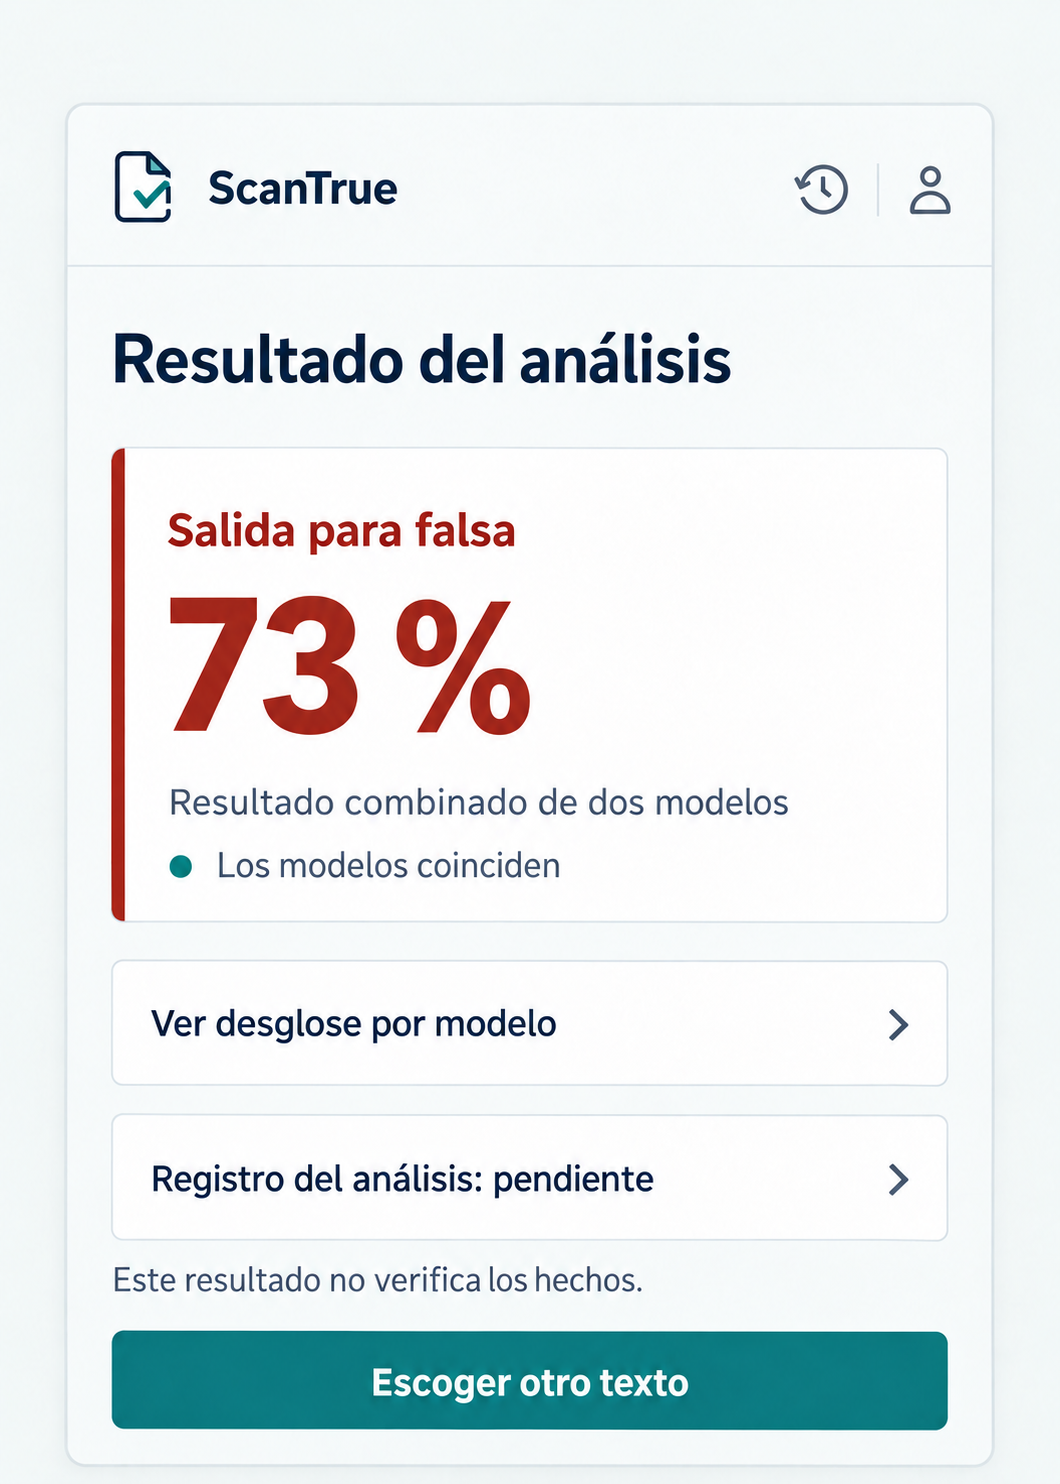
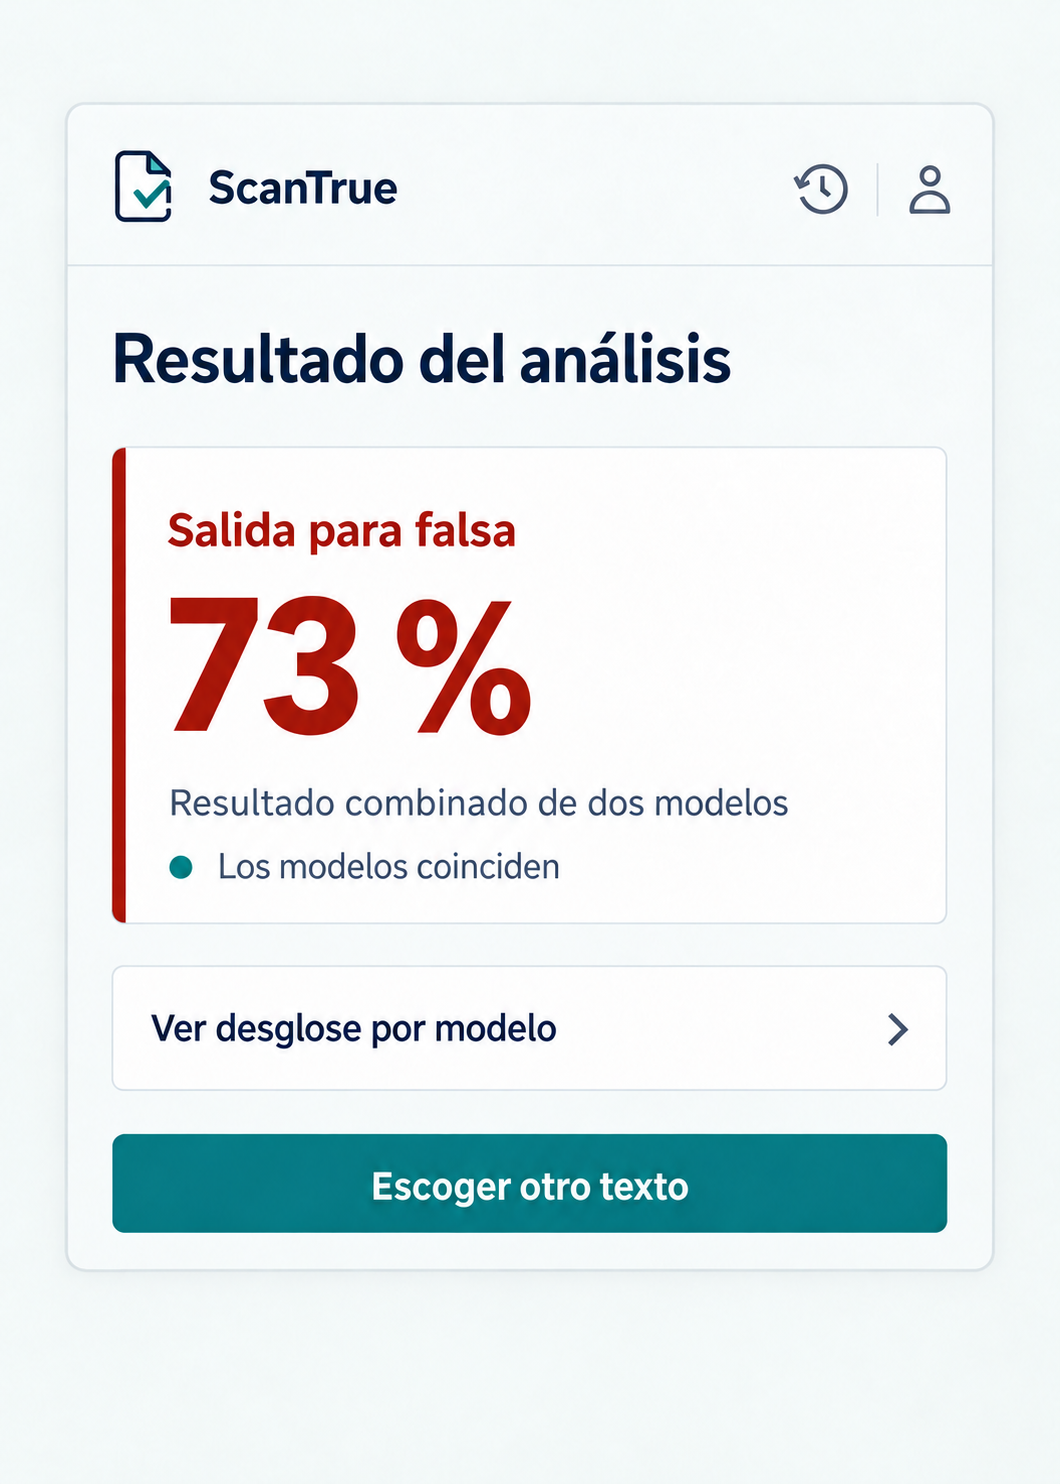
Ordenar develop: documentación histórica, entregas y referencias visuales
- backend/docs/historial/: planes y notas de cambio ya cumplidos (PLAN, PLAN_LIMPIEZA_TEXTO,
  PLAN_TEXTO_UNICO, FEATURE_INTEGRACION_FRONTEND, CAMBIO_CONTRATO_MBERT).
- docs/entregas/Avance_2.docx (antes backend/docs/Avance 2.docx).
- frontend/docs/SISTEMA_DISENO.md y bilstm/docs/TEORIA_ENTRENAMIENTO.md.
- frontend/referencias: se retira la primera versión de p05 y se quita el sufijo -v2.
- Enlaces e índices actualizados (README del backend, frontend y BiLSTM).

diff --git a/frontend/src/popup/styles.css b/frontend/src/popup/styles.css
@@ -5,7 +5,7 @@
 @import '@fontsource/share-tech-mono/latin-400.css';
 @import 'tailwindcss';
 
-/* ScanTrue · consola de análisis retro (ver SISTEMA_DISENO.md). */
+/* ScanTrue · consola de análisis retro (ver frontend/docs/SISTEMA_DISENO.md). */
 @theme {
   --font-sans: 'IBM Plex Sans', Arial, sans-serif;
   --font-display: 'Orbitron', 'Share Tech Mono', monospace;

diff --git a/backend/docs/ESTADO_ACTUAL.md b/backend/docs/ESTADO_ACTUAL.md
@@ -1,6 +1,6 @@
 # Estado actual del backend de ScanTrue
 
-Este documento registra el punto de trabajo actual y el orden propuesto para continuar. El alcance general y los criterios de cierre están en [PLAN.md](PLAN.md); las instrucciones de uso están en [README.md](../README.md).
+Este documento registra el punto de trabajo actual y el orden propuesto para continuar. El alcance general y los criterios de cierre están en [PLAN.md](historial/PLAN.md); las instrucciones de uso están en [README.md](../README.md).
 
 ## Punto en que quedamos
 
@@ -10,13 +10,13 @@ Este documento registra el punto de trabajo actual y el orden propuesto para con
 3. **Verificación de invitados y transferencia completada.** Auth anónimo quedó habilitado y `backend/verificar_flujo.py` pasó con dos invitados: comprobó aislamiento del historial, creación, lectura, renovación, eliminación y cierre de la sesión actual. Además, una cuenta temporal confirmada por Auth Admin inició sesión con `X-Guest-Token`, incorporó un análisis completo y el invitado perdió acceso. El análisis y las identidades temporales de esa prueba se eliminaron.
 4. **Métricas de evaluación: implementadas para ambos.** `GET /metricas` mantiene BiLSTM por defecto; `GET /metricas?modelo=mbert` publica las evaluaciones del checkpoint mBERT seleccionado, con fuentes y limitaciones. Son rutas públicas que no requieren Supabase ni inferencia.
 5. **Registro verificable local: comprobado con análisis real.** El contrato, la cola durable en Supabase, el trabajador y `GET /analisis/{id}/verificacion` están añadidos. La migración `003_blockchain_registry.sql` está aplicada. El recorrido con invitado confirmó un análisis en Anvil y verificó su registro; el análisis de prueba fue eliminado al finalizar.
-6. **Integración frontend: contrato y transferencia comprobados.** El código calcula `resultado_unificado`, guarda el texto y expone sus respuestas de historial y `POST /sesiones/cerrar`. La migración `004_frontend_contract.sql` se aplicó al proyecto Supabase conectado el 10 de octubre de 2026. Los recorridos reales confirmaron texto, vista previa, valor unificado, aislamiento, cierre de sesión y transferencia a cuenta. La guía del frontend está en [`../FRONTEND_CONTEXT.md`](../../frontend/docs/FRONTEND_CONTEXT.md); el detalle interno está en [FEATURE_INTEGRACION_FRONTEND.md](FEATURE_INTEGRACION_FRONTEND.md).
-7. **Cambio de contrato mBERT:** la respuesta de creación incorpora `texto_recortado`, y el historial y el hash usan el fragmento analizado. La guía del frontend ya enviada no se editó; la actualización para comunicar a su responsable está en [CAMBIO_CONTRATO_MBERT.md](CAMBIO_CONTRATO_MBERT.md). La comprobación local verificó recorte, hash y fallback de un solo modelo. Después `backend/verificar_flujo.py` pasó con Supabase y Anvil reales: guardó las dos predicciones, confirmó blockchain, comprobó aislamiento y eliminó el análisis de prueba. El verificador conserva las identidades invitadas que crea en Auth.
+6. **Integración frontend: contrato y transferencia comprobados.** El código calcula `resultado_unificado`, guarda el texto y expone sus respuestas de historial y `POST /sesiones/cerrar`. La migración `004_frontend_contract.sql` se aplicó al proyecto Supabase conectado el 10 de octubre de 2026. Los recorridos reales confirmaron texto, vista previa, valor unificado, aislamiento, cierre de sesión y transferencia a cuenta. La guía del frontend está en [`../FRONTEND_CONTEXT.md`](../../frontend/docs/FRONTEND_CONTEXT.md); el detalle interno está en [FEATURE_INTEGRACION_FRONTEND.md](historial/FEATURE_INTEGRACION_FRONTEND.md).
+7. **Cambio de contrato mBERT:** la respuesta de creación incorpora `texto_recortado`, y el historial y el hash usan el fragmento analizado. La guía del frontend ya enviada no se editó; la actualización para comunicar a su responsable está en [CAMBIO_CONTRATO_MBERT.md](historial/CAMBIO_CONTRATO_MBERT.md). La comprobación local verificó recorte, hash y fallback de un solo modelo. Después `backend/verificar_flujo.py` pasó con Supabase y Anvil reales: guardó las dos predicciones, confirmó blockchain, comprobó aislamiento y eliminó el análisis de prueba. El verificador conserva las identidades invitadas que crea en Auth.
 8. **Texto único:** `POST /analisis` recibe `texto` y `url` opcional. La migración `005_texto_unico.sql` quedó aplicada como `texto_unico`; eliminó la columna `titulo` y las RPC con `p_titulo` después de comprobar que ningún análisis histórico tenía ese valor. El frontend actual ya enviaba solo `texto` y `url`, y usa la vista previa del historial. Los campos operativos de blockchain se conservaron.
 
 ## Qué falta ahora
 
-1. **Comunicación con frontend:** enviar la actualización de contrato de `CAMBIO_CONTRATO_MBERT.md`, incluida la retirada de `titulo` del historial, a la persona que implementa la extensión; `FRONTEND_CONTEXT.md` no se modificó.
+1. **Comunicación con frontend:** enviar la actualización de contrato de `historial/CAMBIO_CONTRATO_MBERT.md`, incluida la retirada de `titulo` del historial, a la persona que implementa la extensión; `FRONTEND_CONTEXT.md` no se modificó.
 2. **Registro por correo:** repetir `backend/verificar_flujo.py --email` cuando Supabase permita enviar confirmaciones. Con el correo proporcionado para la prueba, Auth respondió `429 over_email_send_rate_limit`; el backend conserva ese estado HTTP y devuelve `registro_temporalmente_limitado`. La transferencia se verificó con una cuenta confirmada por Auth Admin, pero el envío y clic del correo aún no se probaron.
 3. **Seguridad de Auth:** el asesor de Supabase muestra avisos esperados por permitir a invitados leer y borrar únicamente sus propias filas mediante `auth.uid()`. También informa que la protección de contraseñas filtradas está deshabilitada; revisar esa configuración antes de producción.
 

diff --git a/backend/docs/historial/FEATURE_INTEGRACION_FRONTEND.md b/backend/docs/historial/FEATURE_INTEGRACION_FRONTEND.md
@@ -1,12 +1,12 @@
 # Feature implementada: contrato de integración con el frontend
 
-> **Nota (11 nov 2026):** los modelos, los límites de lectura y los pesos del resultado unificado cambiaron. Lo vigente está en [CAMBIO_MODELOS_CALIBRADOS.md](CAMBIO_MODELOS_CALIBRADOS.md); este documento se conserva como registro.
+> **Nota (11 nov 2026):** los modelos, los límites de lectura y los pesos del resultado unificado cambiaron. Lo vigente está en [CAMBIO_MODELOS_CALIBRADOS.md](../CAMBIO_MODELOS_CALIBRADOS.md); este documento se conserva como registro.
 
 > Este documento registra la entrega anterior. La integración posterior de
 > mBERT cambió los límites de lectura y el texto guardado; el contrato vigente
 > y la nota para frontend están en [CAMBIO_CONTRATO_MBERT.md](CAMBIO_CONTRATO_MBERT.md).
 
-**Estado: contrato y transferencia a cuenta comprobados; envío de confirmación por correo pendiente de prueba.** El contrato que recibirá la extensión está en [`../FRONTEND_CONTEXT.md`](../../frontend/docs/FRONTEND_CONTEXT.md). Los recorridos reales con Supabase y Anvil confirmaron el flujo de invitados y la incorporación a una cuenta temporal confirmada por Auth Admin.
+**Estado: contrato y transferencia a cuenta comprobados; envío de confirmación por correo pendiente de prueba.** El contrato que recibirá la extensión está en [`../FRONTEND_CONTEXT.md`](../../../frontend/docs/FRONTEND_CONTEXT.md). Los recorridos reales con Supabase y Anvil confirmaron el flujo de invitados y la incorporación a una cuenta temporal confirmada por Auth Admin.
 
 ## Objetivo y orden
 
@@ -34,7 +34,7 @@ La entrega permite que la extensión muestre el texto analizado, tres espacios d
 ## Entrega y sincronización
 
 1. La migración `004_frontend_contract.sql` se aplicó al proyecto Supabase conectado el 10 de octubre de 2026 (versión `20261010224814`). Se verificaron las columnas nuevas, la función reservada a `service_role`, las políticas RLS y la ausencia de advertencias de seguridad. PostgREST expone la RPC y rechaza con HTTP 400 una solicitud inválida sin crear registros. La tabla tenía cero filas; la reconstrucción de registros antiguos no pudo comprobarse con datos reales.
-2. Actualizar OpenAPI, la documentación de operación y el estado interno al terminar. El documento [`../FRONTEND_CONTEXT.md`](../../frontend/docs/FRONTEND_CONTEXT.md) ya fue entregado y no se modifica; mantener el contrato del backend compatible con sus nombres de campos y su ejemplo de un solo modelo.
+2. Actualizar OpenAPI, la documentación de operación y el estado interno al terminar. El documento [`../FRONTEND_CONTEXT.md`](../../../frontend/docs/FRONTEND_CONTEXT.md) ya fue entregado y no se modifica; mantener el contrato del backend compatible con sus nombres de campos y su ejemplo de un solo modelo.
 3. El 10 de octubre de 2026, `backend/verificar_flujo.py` pasó con dos invitados reales: análisis BiLSTM, resultado unificado, texto y vista previa persistidos, RLS de acceso ajeno, renovación, cierre de sesión, blockchain, respuestas de degradación y eliminación del análisis de prueba. Una segunda comprobación inició sesión en una cuenta temporal confirmada por Auth Admin, transfirió un análisis y verificó que el invitado perdió acceso. Los datos temporales se eliminaron. El registro por correo con un buzón real quedó sin completar porque Auth respondió `429 over_email_send_rate_limit`; el backend ahora devuelve 429 en ese caso. El cálculo local con uno y dos modelos y fallo de un modelo se revisó previamente; mBERT real sigue pendiente. También quedan sin comprobar casos históricos anteriores a 004, que no existían en este proyecto.
 
 ## Feature posterior: mBERT

diff --git a/frontend/README.md b/frontend/README.md
@@ -40,15 +40,16 @@ Se omiten las carpetas generadas `dist/` y `node_modules/`.
 
 ```text
 frontend/
-├── README.md
-├── SISTEMA_DISENO.md
-├── package.json
-├── package-lock.json
-├── popup.html
-├── vite.config.js
+├── docs/
+│   ├── FRONTEND_CONTEXT.md
+│   └── SISTEMA_DISENO.md
 ├── public/
+│   ├── icons/
+│   │   └── icon-16/32/48/128.png
 │   ├── manifest.json
 │   └── popup-fallback.css
+├── referencias/
+│   └── pNN-concepto.png (imágenes de referencia de las pantallas)
 ├── scripts/
 │   └── build-extension.mjs
 ├── src/
@@ -61,10 +62,14 @@ frontend/
 │   │   └── service-worker.js
 │   ├── popup/
 │   │   ├── assets/
+│   │   │   ├── scantrue-mark-small.svg
 │   │   │   └── scantrue-mark.svg
 │   │   ├── components/
+│   │   │   ├── HudDecor.jsx
+│   │   │   ├── ModelIcon.jsx
 │   │   │   ├── PasswordVisibilityButton.jsx
-│   │   │   └── ResultGaugePanel.jsx
+│   │   │   ├── ResultGaugePanel.jsx
+│   │   │   └── ScreenHeader.jsx
 │   │   ├── screens/
 │   │   │   ├── AccountScreen.jsx
 │   │   │   ├── BreakdownScreen.jsx
@@ -80,19 +85,29 @@ frontend/
 │   │   ├── main.jsx
 │   │   ├── metrics-presentation.js
 │   │   ├── result-presentation.js
+│   │   ├── selection-presentation.js
+│   │   ├── service-presentation.js
 │   │   └── styles.css
 │   └── shared/
-│       └── api.js
-├── referencias/
-│   └── imágenes de referencia de las pantallas
-└── tests/
-    ├── account.test.js
-    ├── analysis.test.js
-    ├── breakdown-presentation.test.js
-    ├── extension-message.test.js
-    ├── history-api.test.js
-    ├── history-presentation.test.js
-    ├── metrics.test.js
-    ├── result-presentation.test.js
-    └── selection.test.js
+│       ├── api.js
+│       └── selection.js
+├── tests/
+│   ├── account.test.js
+│   ├── analysis.test.js
+│   ├── breakdown-presentation.test.js
+│   ├── extension-message.test.js
+│   ├── history-api.test.js
+│   ├── history-presentation.test.js
+│   ├── metrics.test.js
+│   ├── result-presentation.test.js
+│   ├── selection-presentation.test.js
+│   ├── selection.test.js
+│   └── service-presentation.test.js
+├── .gitignore
+├── package-lock.json
+├── package.json
+├── popup.html
+├── README.md
+├── sidepanel.html
+└── vite.config.js
 ```

diff --git a/backend/docs/historial/PLAN.md b/backend/docs/historial/PLAN.md
@@ -1,6 +1,6 @@
 # Plan de implementación del backend de ScanTrue
 
-> **Nota (11 nov 2026):** los modelos, los límites de lectura y los pesos del resultado unificado cambiaron. Lo vigente está en [CAMBIO_MODELOS_CALIBRADOS.md](CAMBIO_MODELOS_CALIBRADOS.md); este documento se conserva como registro.
+> **Nota (11 nov 2026):** los modelos, los límites de lectura y los pesos del resultado unificado cambiaron. Lo vigente está en [CAMBIO_MODELOS_CALIBRADOS.md](../CAMBIO_MODELOS_CALIBRADOS.md); este documento se conserva como registro.
 
 ## Objetivo de esta entrega
 
@@ -8,7 +8,7 @@ Dejar una API local funcional y demostrable desde FastAPI. Debe analizar texto c
 
 ## Hoja de ruta actual
 
-1. **Integración con la extensión: implementada y comprobada.** Texto seleccionado, vista previa, detalle, resultado unificado persistido y cierre de sesión están disponibles. La migración 004 está aplicada; el contrato está en [FEATURE_INTEGRACION_FRONTEND.md](FEATURE_INTEGRACION_FRONTEND.md). La guía ya entregada a frontend está en [`../FRONTEND_CONTEXT.md`](../../frontend/docs/FRONTEND_CONTEXT.md) y no se modifica.
+1. **Integración con la extensión: implementada y comprobada.** Texto seleccionado, vista previa, detalle, resultado unificado persistido y cierre de sesión están disponibles. La migración 004 está aplicada; el contrato está en [FEATURE_INTEGRACION_FRONTEND.md](FEATURE_INTEGRACION_FRONTEND.md). La guía ya entregada a frontend está en [`../FRONTEND_CONTEXT.md`](../../../frontend/docs/FRONTEND_CONTEXT.md) y no se modifica.
 2. **Cierre operativo: transferencia comprobada.** Auth anónimo está habilitado; los recorridos reales cubrieron invitados, historial, eliminación, porcentajes, blockchain y transferencia a una cuenta temporal confirmada por Auth Admin. Queda por comprobar el envío y clic del correo de registro cuando termine el límite temporal de Supabase.
 3. **mBERT real: implementado y comprobado operativamente.** El checkpoint, tokenizador, mapa de clases y evaluaciones del modelo seleccionado están en `mBERT/`; el adaptador del backend carga la inferencia real. La API conserva los tres espacios de porcentaje y el resultado unificado. El recorrido con Supabase y Anvil confirmó persistencia de dos predicciones, aislamiento y blockchain. La actualización del contrato para frontend está en [CAMBIO_CONTRATO_MBERT.md](CAMBIO_CONTRATO_MBERT.md).
 4. **Texto único: implementado.** La migración 005 elimina el título separado de la base de datos; `POST /analisis` usa solo `texto` y `url` opcional. La extensión ya enviaba ese contrato.

diff --git a/frontend/docs/FRONTEND_CONTEXT.md b/frontend/docs/FRONTEND_CONTEXT.md
@@ -33,7 +33,7 @@ La primera versión será una extensión Manifest V3 para **Chrome/Chromium 127 
 
 El service worker recibe `selectionText` y `pageUrl`, prepara la solicitud y abre el popup del prototipo. Si Chrome no abre el popup automáticamente, conserva la selección pendiente y pide abrirlo desde el icono de la extensión. El botón de “Escoger texto a analizar” del prototipo puede guiar al usuario a seleccionar texto y usar el menú contextual. [Chrome documenta `selectionText` y `pageUrl`](https://developer.chrome.com/docs/extensions/reference/api/contextMenus) y [`action.openPopup()`](https://developer.chrome.com/docs/extensions/reference/api/action).
 
-Usar como referencia visual las vistas de `backend/Avance 2.docx`: escaneo, resultado, desglose por modelo, historial y reporte. El reporte puede ocupar una página propia de la extensión si no cabe en el popup. Añadir vistas de invitado/cuenta, confirmación de correo, detalle del historial y verificación blockchain siguiendo ese lenguaje visual.
+Usar como referencia visual las vistas de [`docs/entregas/Avance_2.docx`](../../docs/entregas/Avance_2.docx): escaneo, resultado, desglose por modelo, historial y reporte. El reporte puede ocupar una página propia de la extensión si no cabe en el popup. Añadir vistas de invitado/cuenta, confirmación de correo, detalle del historial y verificación blockchain siguiendo ese lenguaje visual.
 
 ### Comunicación y sesión
 

diff --git a/backend/README.md b/backend/README.md
@@ -299,3 +299,13 @@ contraseña de esa cuenta sin mostrarla y se detiene mientras confirmas el
 correo. Tras pulsar Enter inicia sesión, comprueba la incorporación del
 historial y elimina el análisis de prueba. La cuenta creada permanece en
 Supabase; usa una dirección y contraseña reservadas para esta verificación.
+
+## Documentación
+
+| Documento | Contenido |
+| --- | --- |
+| [docs/ESTADO_ACTUAL.md](docs/ESTADO_ACTUAL.md) | Punto en que está el backend |
+| [docs/GUIA_ARRANQUE_Y_PRUEBAS.md](docs/GUIA_ARRANQUE_Y_PRUEBAS.md) | Cómo arrancar y probar todo |
+| [docs/FLUJO_PRINCIPAL_ANALISIS.md](docs/FLUJO_PRINCIPAL_ANALISIS.md) | Recorrido de un análisis, con fragmentos del código |
+| [docs/CAMBIO_MODELOS_CALIBRADOS.md](docs/CAMBIO_MODELOS_CALIBRADOS.md) | Modelos B6 y BETO calibrados (contrato vigente) |
+| [docs/historial/](docs/historial/) | Planes y notas de cambio ya cumplidos, conservados como registro |

diff --git a/datasets/README.md b/datasets/README.md
@@ -51,4 +51,4 @@ Acosta, Zenodo, FakeCovid, FLARES, RUN-AS, FactOReS, MM-COVID (descarga pendient
 
 ## Qué se borró el 10 nov 2026
 
-Copias duplicadas (`MIS DATASETS/`, su `.zip`; la carpeta `DATASETS/` de la raíz queda pendiente de borrar a mano), etapas intermedias (`estandarizados/`, `unificado_total/` salvo el CSV de entrada), los embeddings `wiki.es.vec`, los checkpoints de experimentos (de octubre y de B0–B8) y el respaldo completo de `comun_v1` 1.0 (quedan sus métricas).
+Copias duplicadas (`MIS DATASETS/`, su `.zip`; y la carpeta `DATASETS/` de la raíz), etapas intermedias (`estandarizados/`, `unificado_total/` salvo el CSV de entrada), los embeddings `wiki.es.vec`, los checkpoints de experimentos (de octubre y de B0–B8) y el respaldo completo de `comun_v1` 1.0 (quedan sus métricas).

diff --git a/backend/docs/historial/CAMBIO_CONTRATO_MBERT.md b/backend/docs/historial/CAMBIO_CONTRATO_MBERT.md
@@ -1,6 +1,6 @@
 # Actualización de contrato para la persona de frontend
 
-> **Nota (11 nov 2026):** los modelos, los límites de lectura y los pesos del resultado unificado cambiaron. Lo vigente está en [CAMBIO_MODELOS_CALIBRADOS.md](CAMBIO_MODELOS_CALIBRADOS.md); este documento se conserva como registro.
+> **Nota (11 nov 2026):** los modelos, los límites de lectura y los pesos del resultado unificado cambiaron. Lo vigente está en [CAMBIO_MODELOS_CALIBRADOS.md](../CAMBIO_MODELOS_CALIBRADOS.md); este documento se conserva como registro.
 
 La guía `FRONTEND_CONTEXT.md` ya se entregó y no se modifica. Este documento
 registra el cambio que debe comunicarse junto a ella antes de actualizar la

diff --git a/docs/DISENO_FISICO_BASE_DATOS.md b/docs/DISENO_FISICO_BASE_DATOS.md
@@ -2,7 +2,7 @@
 
 Este documento representa el esquema PostgreSQL de ScanTrue **después de aplicar, en orden, las migraciones 001 a 005** de `backend/db/migrations/`. Describe las tablas propias de la aplicación en `public` y su vínculo con `auth.users`, administrada por Supabase Auth. No representa estados intermedios de las migraciones ni propone cambios al esquema.
 
-El detalle de cada campo en el formato solicitado está en el [diccionario de datos](./DICCIONARIO_DATOS_SCANTRUE.md).
+El detalle de cada campo en el formato solicitado está en el [diccionario de datos](DICCIONARIO_DATOS_SCANTRUE.md).
 
 ## Diagrama entidad–relación
 

diff --git a/backend/docs/GUIA_ARRANQUE_Y_PRUEBAS.md b/backend/docs/GUIA_ARRANQUE_Y_PRUEBAS.md
@@ -165,7 +165,7 @@ de la extensión. React puede usarse para su interfaz. El flujo mínimo es:
 
 El contrato **vigente** para límites, mBERT real, `texto_recortado`, texto del
 historial y métricas mBERT está en
-[CAMBIO_CONTRATO_MBERT.md](CAMBIO_CONTRATO_MBERT.md). Esa nota actualiza la guía
+[CAMBIO_CONTRATO_MBERT.md](historial/CAMBIO_CONTRATO_MBERT.md). Esa nota actualiza la guía
 de frontend ya entregada, que conserva ejemplos anteriores a la integración
 real de mBERT; los modelos y límites actuales están en
 [CAMBIO_MODELOS_CALIBRADOS.md](CAMBIO_MODELOS_CALIBRADOS.md). BiLSTM lee como

diff --git a/docs/DICCIONARIO_DATOS_SCANTRUE.md b/docs/DICCIONARIO_DATOS_SCANTRUE.md
@@ -63,4 +63,4 @@ Este diccionario describe las dos tablas propias de ScanTrue y una referencia br
 
 - Esquema propio: `backend/db/migrations/001_identity_history.sql` a `005_texto_unico.sql`.
 - Esquema de referencia de Auth: columnas consultadas en el proyecto Supabase conectado. Supabase administra esta tabla y puede modificar su esquema interno.
-- Diseño físico y relaciones: [DISEÑO FÍSICO DE LA BASE DE DATOS](./DISENO_FISICO_BASE_DATOS.md).
+- Diseño físico y relaciones: [DISEÑO FÍSICO DE LA BASE DE DATOS](DISENO_FISICO_BASE_DATOS.md).
